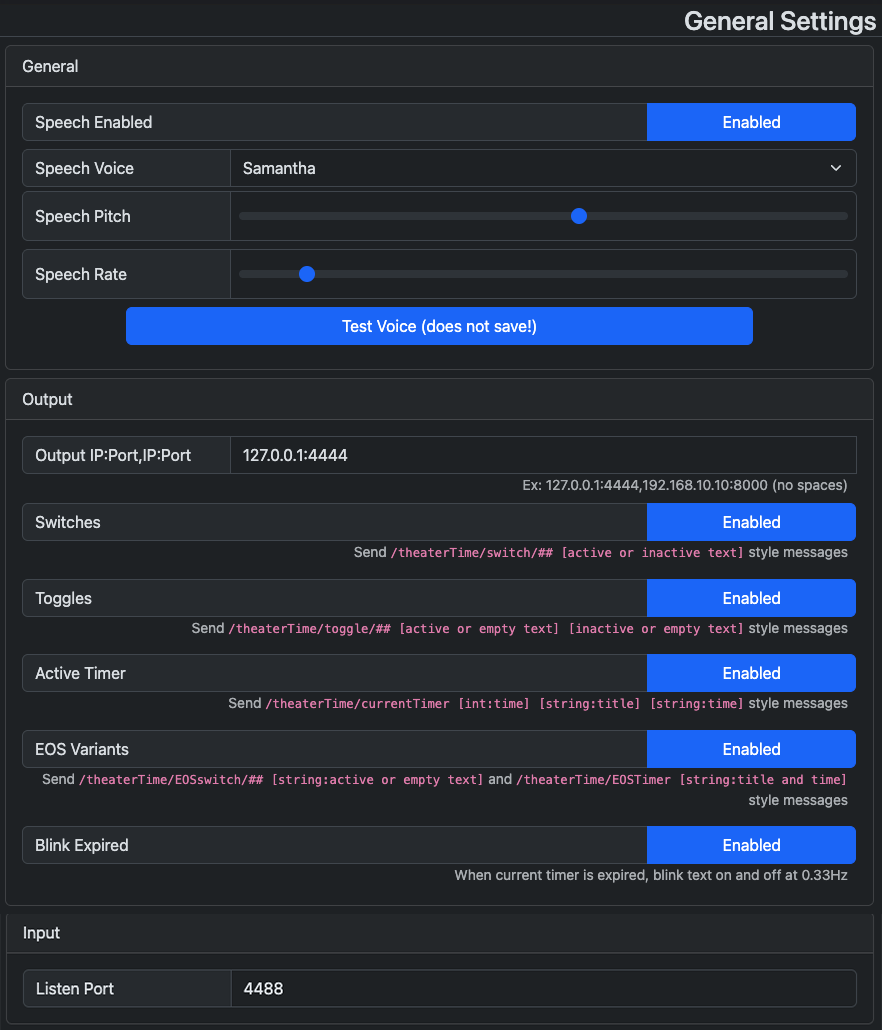
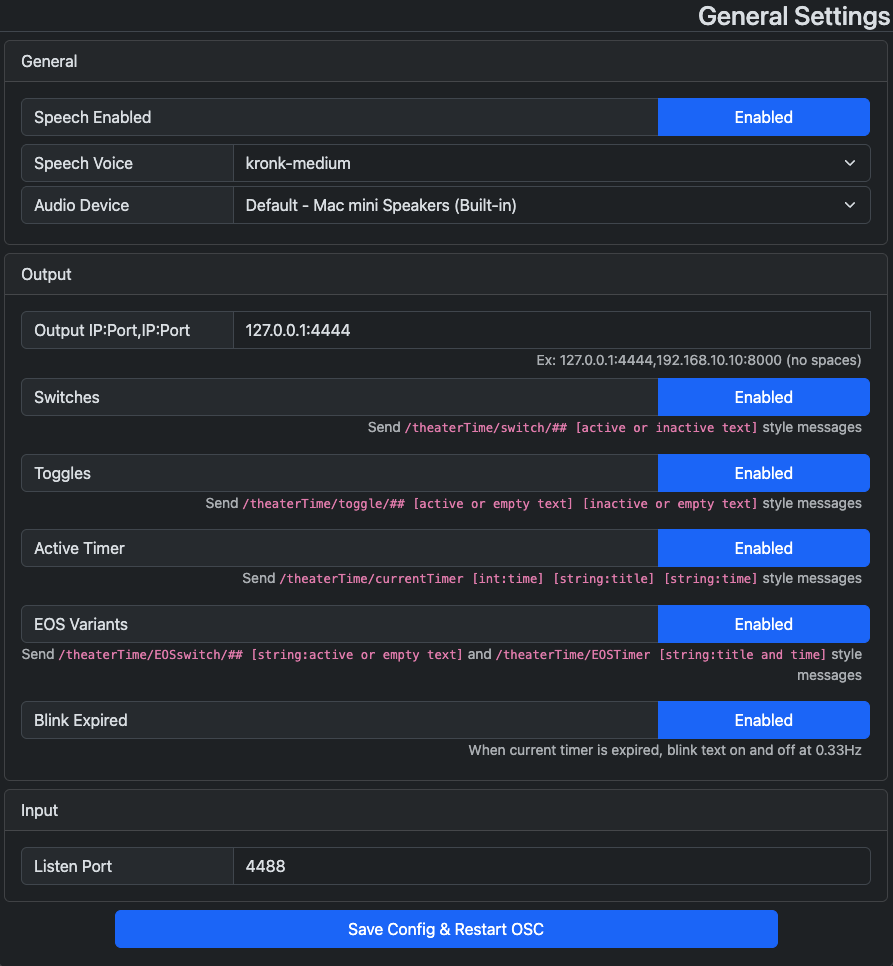
lost the readme, oops.

diff --git a/README.md b/README.md
@@ -1,0 +1,169 @@
+# TheaterTime
+
+Simple Theater Timer for Events and Shows
+
+## What it is
+
+This is a simple timer that can keep track of a theater performance (or really any sequential event).  It outputs all of it's data via OSC and via a simple web interface.  Interaction is OSC message based, although some simple interactions are available in the "admin" web interface.  OSC output is specifically tailored to work well with [Vor](https://www.getvor.app/)
+
+![Basic Show](s_shot/app.png)
+![Basic Rehearsal](s_shot/app2.png)
+![OSC Output](s_shot/output.png)
+![Vor Sample](s_shot/vor.png)
+
+## Features
+
+- Countdown to absolute time timers (show start)
+- Countup from zero timers (Acts, Scenes, whatever)
+- Countdown to an absolute number of minutes (intermissions)
+- Toggle switches that can optionally be tied to timers (places, house open, etc)
+- Audio feedback on the main process for switches and countdown timers ("10 Minutes, please"; "This is your places call")
+- Configuration auto save with an easy option to update all timers to reference "today"
+- Configuration save to file / load from file. Drag-and-drop supported.
+
+## Switches
+
+Switches are ON/OFF Data points. You can activate of deactivate them manually, and they can also be deactivated when another switch is thrown, or a timer is started. _As a note, the documentation assumes you won't have more than 99 switches - this isn't a real limit, but 2-digit padding is used for output._
+
+- __Active / Inactive Text__ : The text displayed when the switch is active or inactive
+- __Color__ : Standard is to use green when on, and red when off.  Reversing does the opposite
+- __Speak__ : A text string that will be machine-spoken when the switch is toggled active
+- __Reset Switch(es)__ : These are the switches that will be set to inactive when this switch is set active
+
+![Switch Settings](s_shot/set-switch.png)
+
+## Timers
+
+Timers keep time.  They can track time _until_ an event, or time _elapsed_ in an event.  You can only have 1 timer active at a time, but there are provisions for running inactive timers, depending on type.
+
+- __Count Down__ : This timer type counts down to a pre-specified DateTime. For instance, your event starts today at 7:30PM.  You can have multiple count-down timers, and they all run automatically from start, and stop when marked inactive.
+- __Count Up__ : This timer type tracks elapsed time.  Only one count-up timer can be active at a time. For instance, an act timer.
+- __Count Minutes__ : This timer type counts down to a pre-specified number of minutes. For instance, a 15 minute intermission.  Only one minute count-down timer can be active at a time.
+
+Additional options are available on some timers
+
+- __Sound__ : The system will speak `"## Minutes Please.  ## Minutes"` for 90, 60, 30, 20, 15, 10, and 5 minutes remaining.  This setting is unavailable on count-up timers. You may specify an additional text to be spoken after the chime and before the generated response.  This is particularly helpful when running multiple shows or events concurrently.
+- __Reset Switch(es)__ : These are the switches that will be set to inactive when this timer is set active.  This setting is available on all timers, but will not function on the _first_ timer.
+- __Minutes__ : The number of minutes to count (plus 2 seconds, so audio plays correctly). This settings is only available on minute count-down type timers.
+- __Target__ : The target DateTime to count-down to.  This setting is only available on count-down type timers.
+
+![Timer Settings](s_shot/set-timer.png)
+
+## OSC Input
+
+The recommended method of interacting with TheaterTime is to use OSC messages.
+
+![General Settings](s_shot/set-general.png)
+
+### Switch OSC
+
+- __Toggle a switch active__ : `/theaterTime/switch/on [int:1..99]`
+- __Toggle a switch inactive__ : `/theaterTime/switch/off [int:1..99]`
+- __Toggle a switch to it's opposite state__ : `/theaterTime/switch/toggle [int:1..99]`
+
+### Timer OSC
+
+- __Advance to the next timer__ : `/theaterTime/timer/next`
+- __Return to the previous timer__ : `/theaterTime/timer/previous`
+- __Stop all timers__ : `/theaterTime/timer/stop`
+
+### Other OSC
+
+- __Reset all timers and switches__ : `/theaterTime/reset`
+- __Speak an arbitrary string__ : `/theaterTime/speak [string]`
+
+## OSC Output
+
+TheaterTime is intended for use with Vor - but it can talk to any application that consumes OSC.  Configuration of which items to send are on the settings page, their output is explained here.
+
+### Switch Single
+
+- `/theaterTime/switch/[01..99] [s:Title] [s:Active/Inactive Text] [i:0/1]`
+- __Inactive Example__
+  - `/theaterTime/switch/01 [s:"House"] [s:"House is NOT Open"] [i:0]`
+- __Active Example__
+  - `/theaterTime/switch/01 [s:"House"] [s:"House is OPEN"] [i:1]`
+- __EOS Variant__
+  - `/theaterTimer/EOSswitch/01 [s:Active/Inactive Text]`
+  - `/theaterTimer/EOSswitch/01 [s:"House is OPEN"]`
+
+### Switch Toggle
+
+- `/theaterTime/toggle/[01..99] [s:Active text/empty] [s:Inactive Text/empty]`
+- __Inactive Example__
+  - `/theaterTime/toggle/01 [s:""] [s:"House is NOT Open"]`
+- __Active Example__
+  - `/theaterTime/toggle/01 [s:"House is OPEN"] [s:""]`
+- __Reverse Color__
+  - `/theaterTime/toggle/[01..99] [s:Inactive Text/empty] [s:Active text/empty]`
+  
+### Current Timer
+
+- `/theaterTime/currentTimer [i:Seconds] [s:Title] [s:Time String]`
+- __Example__
+  - `/theaterTime/currentTimer [i:19607] [s:"Pre-Show"] [s:"↓ - 05:26:47"]`
+- __Expired Example__
+  - `/theaterTime/currentTimer [i:-2141] [s:"Pre-Show"] [s:"↓ + 00:35:41"]`
+- __Blink Example__
+  - `/theaterTime/currentTimer [i:-2187] [s:""] [s:""]`
+- __EOS Variant__
+  - `/theaterTimer/EOSTimer [s:Title - Time String]`
+  - `/theaterTime/EOSTime [s:"Pre-Show - ↓ - 05:26:47]`
+
+## License
+
+Do whatever you like with this code. If it might be helpful to others, maybe open a pull request.
+
+## A Note about power saving
+
+Most of the power saving features of chromium (electron renderer) have been disabled for this application.  This is done so that audio announcements play even if TheaterTime is hidden or minimized.  The down side of this is that TheaterTime will always use the CPU, and if you are running it on a laptop, a bit more battery.
+
+## qLab Integration
+
+Most of this is very straightforward - you just need a proper network entry
+
+![qLab](s_shot/qlab.png)
+
+__OR__ you can use the `.qlabnetwork` file included in the project repository (`qlab` folder).  It goes in `~/Library/Application Support/Qlab/Network Library/`
+
+![qLab](s_shot/qlab2.png)
+
+If you wish to use the "speak arbitrary message" function, and would like to have qLab prompt you for the message, you will need 2 cues:
+
+- __SPEAK__ - A network cue pointed to the TheaterTime Patch
+- ___???___ - A script cue with the following script in it:
+
+### standard OSC network definition
+
+```applescript
+tell application id "com.figure53.QLab.5" to tell front workspace
+    set prevCommand to notes of cue "SPEAK"
+    if prevCommand is "" then set prevCommand to "Hello"
+
+    display dialog "" default answer prevCommand with title "Text to speak" buttons {"Cancel", "OK"} default button "OK" cancel button "Cancel"
+
+    set theCommand to text returned of result
+
+    set notes of cue "SPEAK" to theCommand
+    set oscCommand to "/theaterTime/speak " & quote & theCommand & quote
+    set parameter values of cue "SPEAK" to {oscCommand}
+    start cue "SPEAK"
+end tell
+```
+
+### included custom network configuration
+
+```applescript
+tell application id "com.figure53.QLab.5" to tell front workspace
+    set prevCommand to notes of cue "SPEAK"
+    if prevCommand is "" then set prevCommand to "Hello"
+
+    display dialog "" default answer prevCommand with title "Text to speak" buttons {"Cancel", "OK"} default button "OK" cancel button "Cancel"
+
+    set theCommand to text returned of result
+
+    set notes of cue "SPEAK" to theCommand
+    set parameter values of cue "SPEAK" to {"/speak", theCommand}
+    start cue "SPEAK"
+end tell
+```
